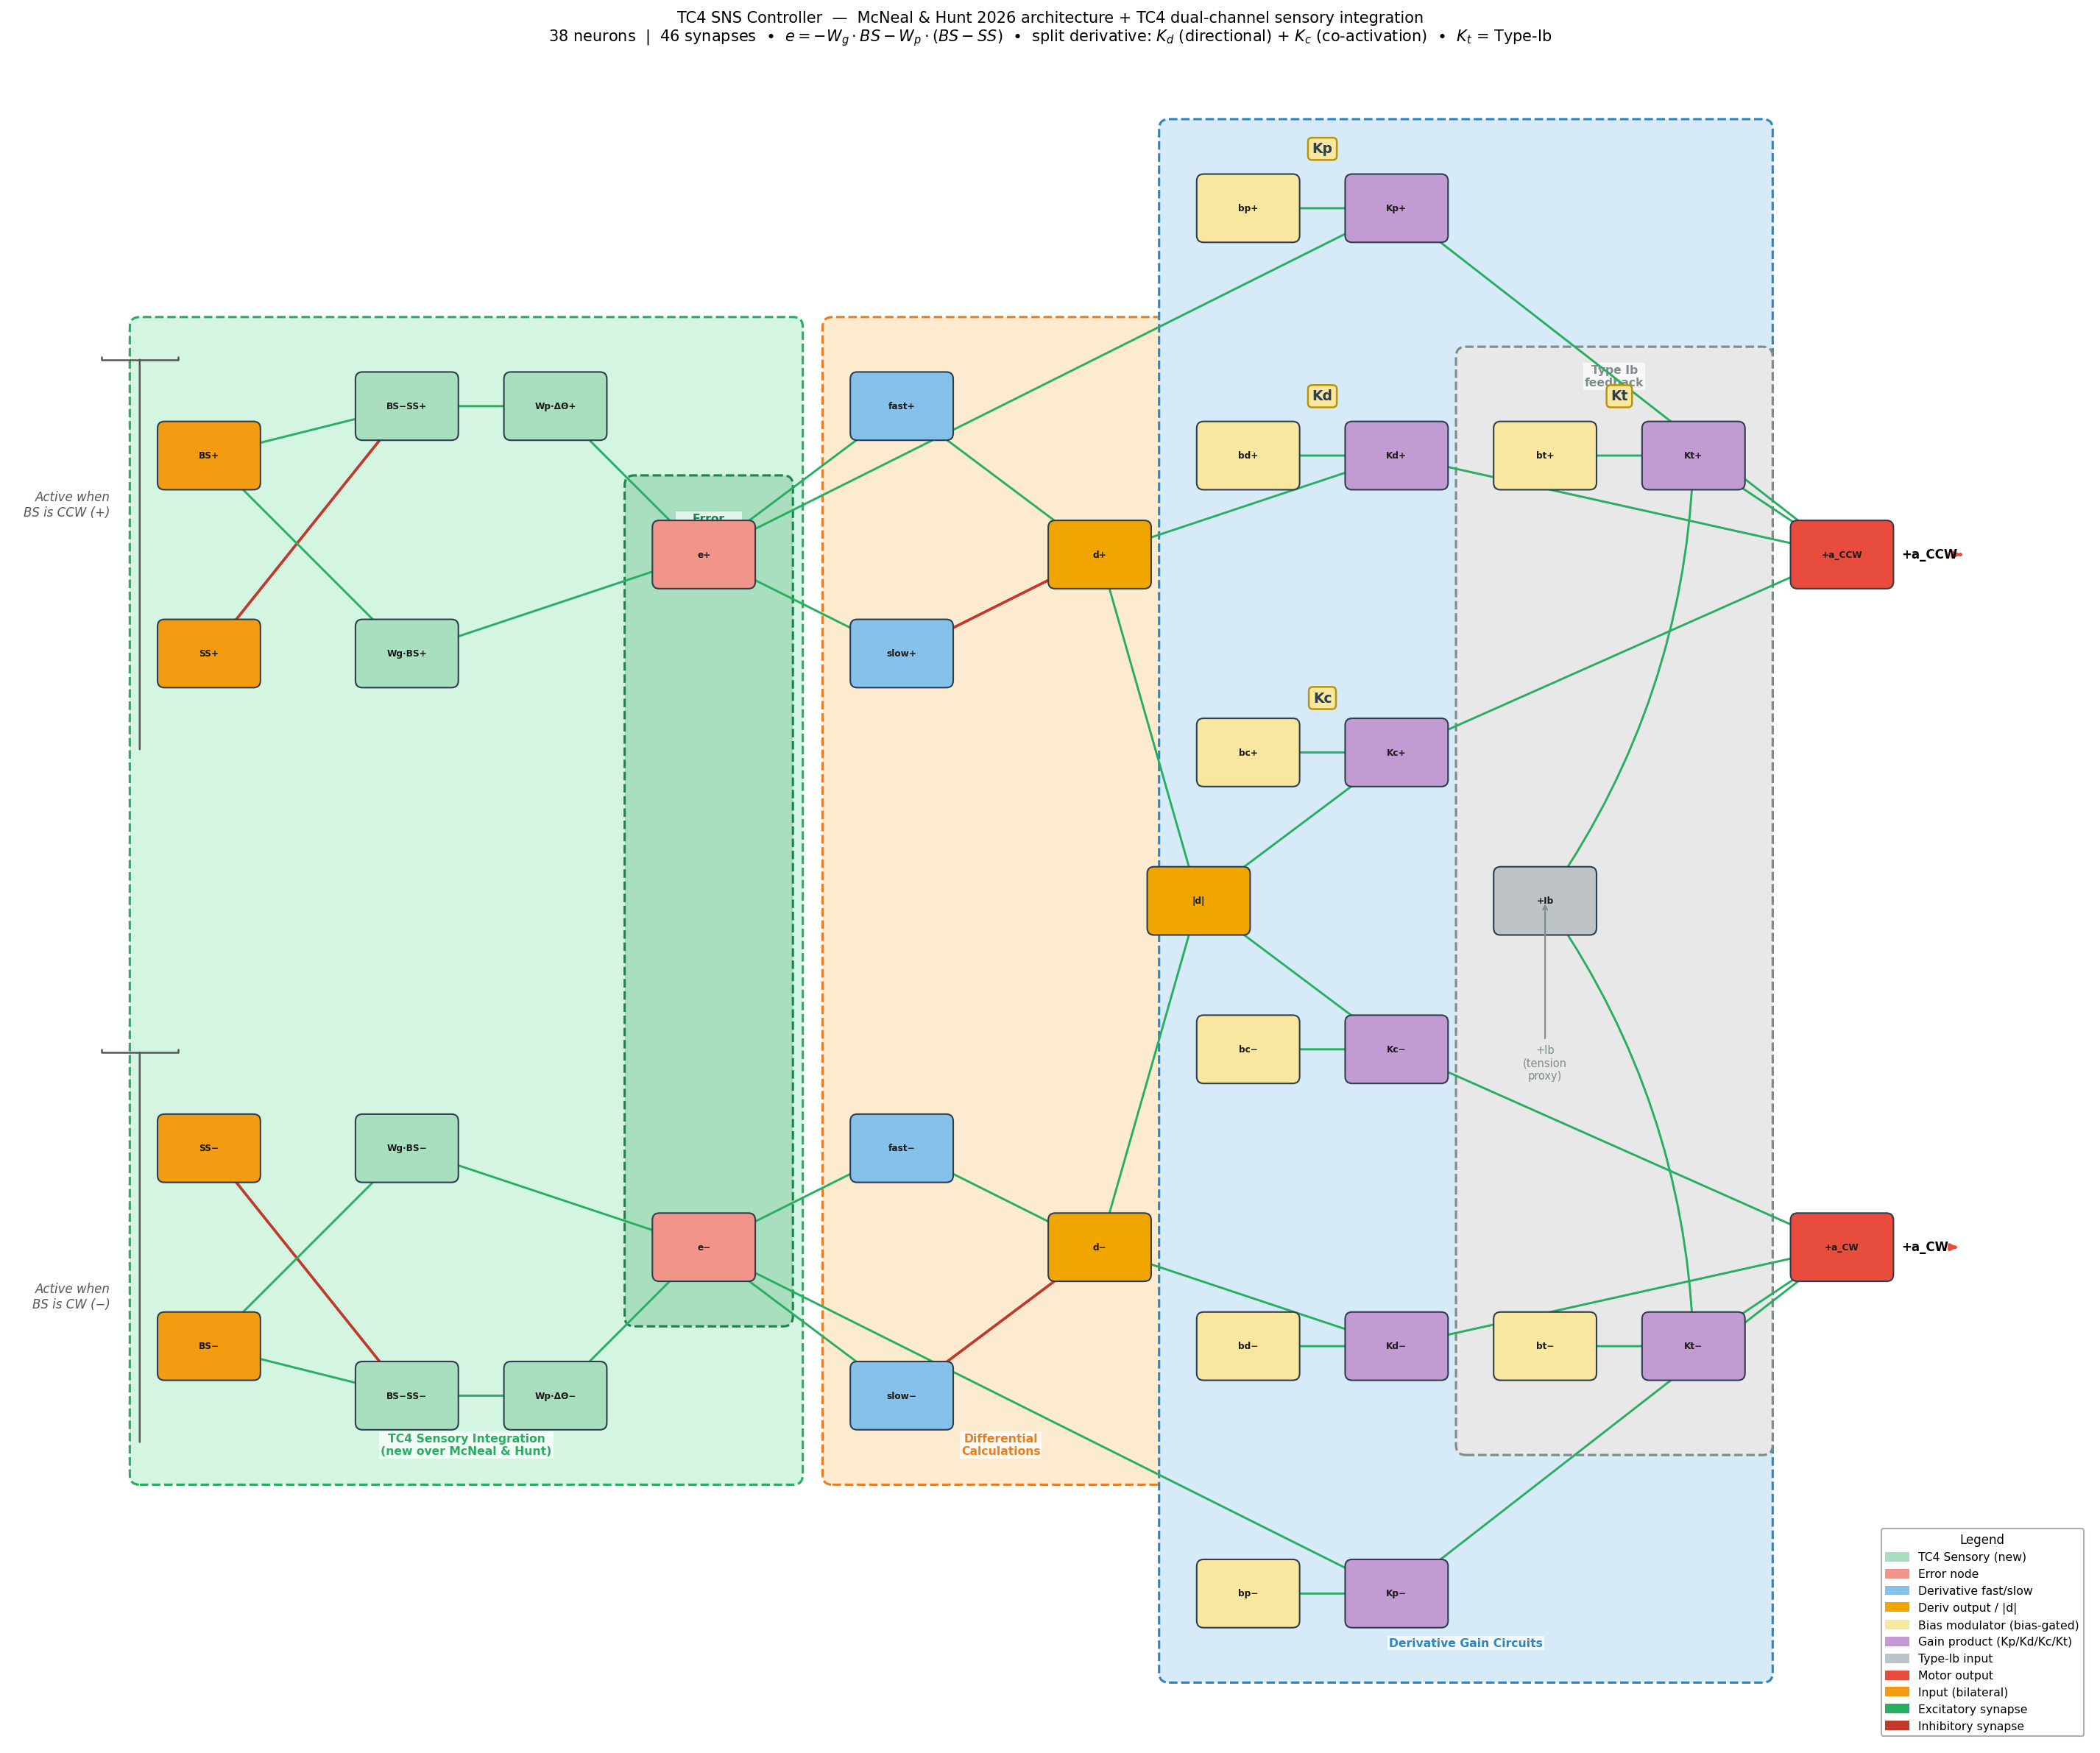
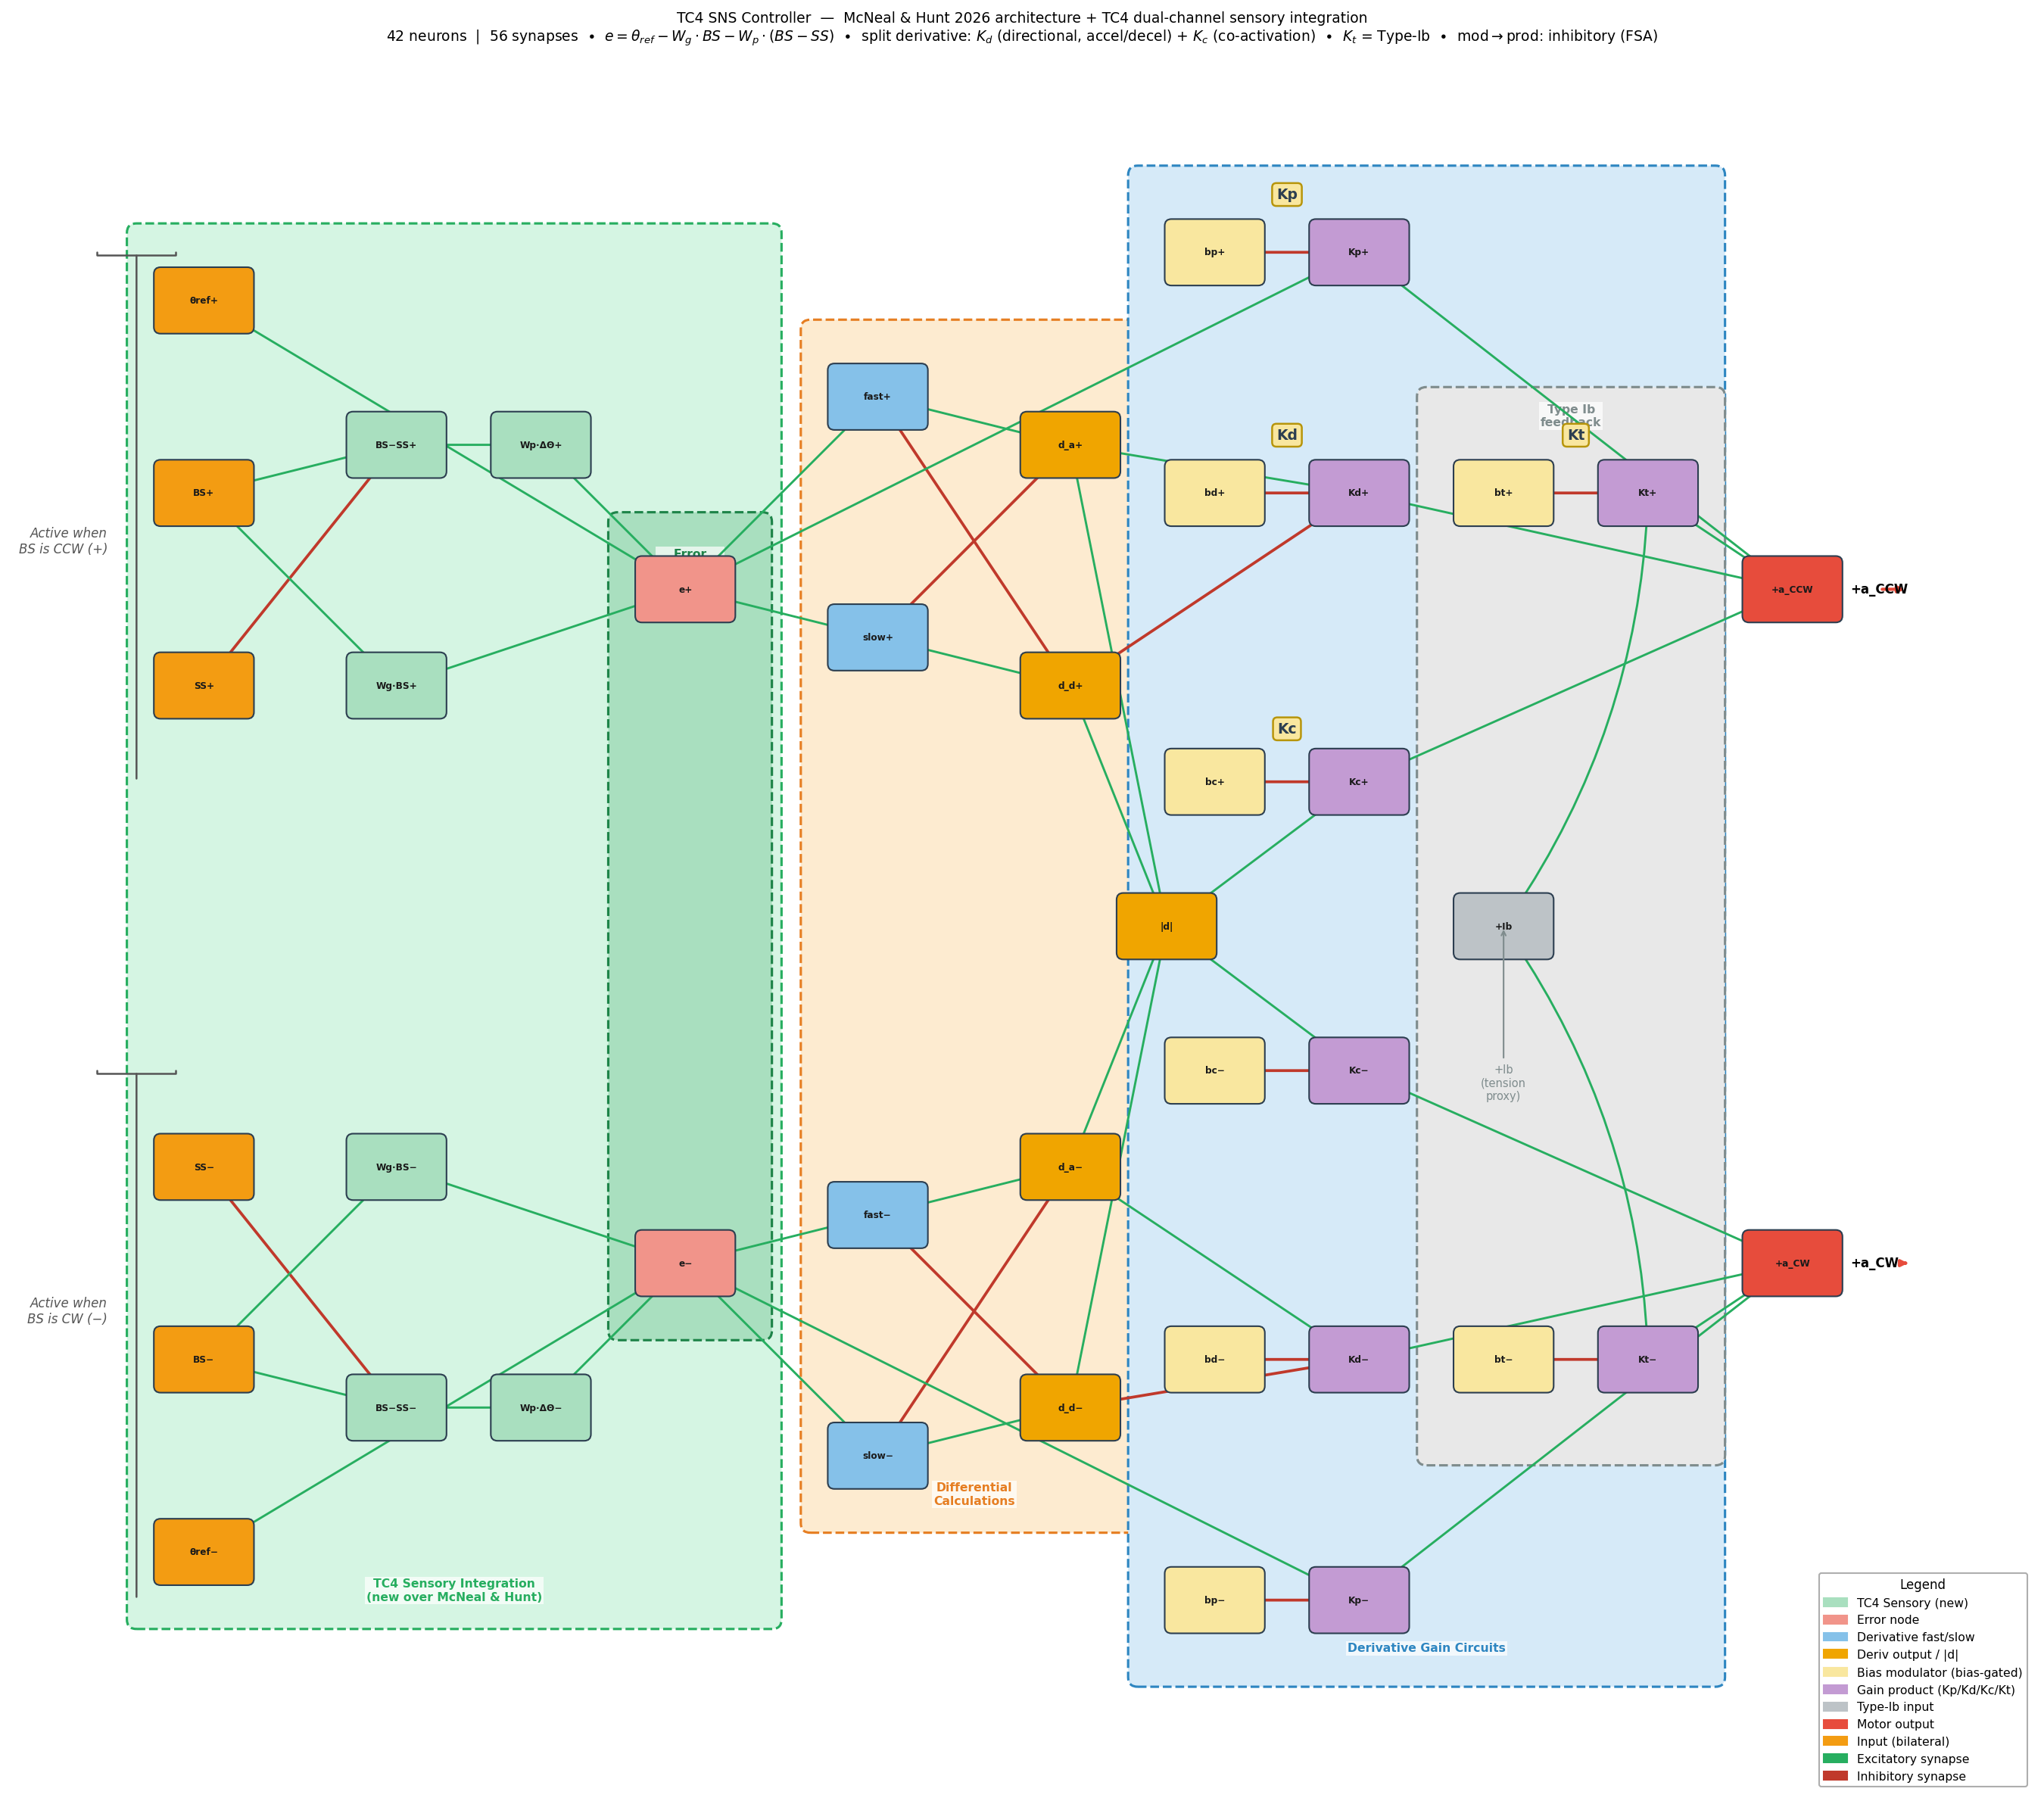
Fix three FSA architectural errors in TC4 SNS controller
- Add theta_ref bilateral input nodes (theta_ref_ccw/cw) wired excitatorily
  into error computation so non-zero reference angles can be commanded
- Split derivative subnetwork into d_accel and d_decel per side: d_accel
  captures error-growing phase (fast > slow), d_decel captures returning-to-
  upright phase (slow > fast); both feed coact_node for |d| and Kd pathway
  receives d_accel excitatory / d_decel inhibitory for signed derivative
- Fix all 8 mod→prod synapses from excitatory to inhibitory per FSA
  multiplication topology (Szczecinski 2017, Fig. 4); also fixed in
  make_multiplication_network() in sns_subnetworks.py
- Network grows from 38 neurons/46 synapses to 42 neurons/56 synapses
- Bias parameters (bp, bd, bc, bt) will need PSO re-tuning after
  mod→prod polarity change

diff --git a/Controller/sns_tc4_controller.py b/Controller/sns_tc4_controller.py
@@ -15,10 +15,10 @@ TC4 conditions (Peterka 2002, Table 2, 1-degree amplitude):
 Error signal:  e = -Wg * BS - Wp * (BS - SS)
 Torque:        Ta = (Kp + Kd * s) * e(t - tau_d)   [PD only, no integral]
 
-Network layout (38 neurons, 46 synapses):
-  Stage 1 — Bilateral input          (4  neurons)
+Network layout (42 neurons, 56 synapses):
+  Stage 1 — Bilateral input          (6  neurons)   [+2: theta_ref_ccw/cw]
   Stage 2 — TC4 sensory integration  (8  neurons)   <-- TC4 addition over McNeal & Hunt
-  Stage 3 — Derivative estimation    (6  neurons)
+  Stage 3 — Derivative estimation    (8  neurons)   [+2: d_decel_ccw/cw]
   Stage 4 — Co-activation |d(t)|     (1  neuron)
   Stage 5 — Bias-gated gain stages   (16 neurons)   Kp, Kd, Kc, Kt
   Stage 6 — Type-Ib input node       (1  neuron)
@@ -213,7 +213,7 @@ def build_tc4_network():
     # a CCW (positive) half and a CW (negative-magnitude) half before
     # entering the network.  Only one half is active at any instant.
     # ----------------------------------------------------------------
-    for name in ["bs_ccw", "bs_cw", "ss_ccw", "ss_cw"]:
+    for name in ["bs_ccw", "bs_cw", "ss_ccw", "ss_cw", "theta_ref_ccw", "theta_ref_cw"]:
         add_neuron(new_standard_neuron(name))
 
     # ----------------------------------------------------------------
@@ -250,28 +250,40 @@ def build_tc4_network():
         add_neuron(new_standard_neuron(f"wp_{side}"))
         add_synapse(f"sub_diff_{side}", f"wp_{side}", GS_WP, Es_exc)
 
-        # Addition: wg + wp  →  combined TC4 error
+        # Addition: theta_ref + wg + wp  →  combined TC4 error
         add_neuron(new_standard_neuron(f"error_{side}"))
-        add_synapse(f"wg_{side}", f"error_{side}", gs_exc, Es_exc)
-        add_synapse(f"wp_{side}", f"error_{side}", gs_exc, Es_exc)
+        add_synapse(f"theta_ref_{side}", f"error_{side}", gs_exc, Es_exc)
+        add_synapse(f"wg_{side}",        f"error_{side}", gs_exc, Es_exc)
+        add_synapse(f"wp_{side}",        f"error_{side}", gs_exc, Es_exc)
 
     # ----------------------------------------------------------------
     # Stage 3 — Derivative estimation  (McNeal & Hunt Eqs. 8-10)
-    # d(t) = v_fast - v_slow
-    # tau_fast = Cm_fast / Gm = 2 ms   (responds quickly to error changes)
-    # tau_slow = Cm_slow / Gm = 10 ms  (lags, so the difference is derivative)
-    # Both fast and slow neurons receive the same error signal.
-    # The output neuron computes the difference via excitatory/inhibitory synapses.
+    #
+    # Two output nodes per side represent the full signed derivative:
+    #   d_accel_{side} = fast - slow  (positive when error is accelerating)
+    #   d_decel_{side} = slow - fast  (positive when error is decelerating)
+    #
+    # Without d_decel, the SNS voltage would floor at Er when fast < slow,
+    # losing the returning-to-upright signal.  Both nodes are needed for:
+    #   - Kd: d_accel excitatory, d_decel inhibitory → signed directional derivative
+    #   - Kc: both excitatory to coact_node → |d| = accelerating + decelerating
     # ----------------------------------------------------------------
     for side in ["ccw", "cw"]:
         add_neuron(Neuron(Cm_nF=2.0,  Gm_uS=GM_DEFAULT, Er_mV=Er, name=f"deriv_fast_{side}"))
         add_neuron(Neuron(Cm_nF=10.0, Gm_uS=GM_DEFAULT, Er_mV=Er, name=f"deriv_slow_{side}"))
-        add_neuron(new_standard_neuron(f"deriv_out_{side}"))
+        add_neuron(new_standard_neuron(f"d_accel_{side}"))   # positive when accelerating
+        add_neuron(new_standard_neuron(f"d_decel_{side}"))   # positive when decelerating
 
         add_synapse(f"error_{side}",      f"deriv_fast_{side}", gs_exc, Es_exc)
         add_synapse(f"error_{side}",      f"deriv_slow_{side}", gs_exc, Es_exc)
-        add_synapse(f"deriv_fast_{side}", f"deriv_out_{side}",  gs_exc, Es_exc)
-        add_synapse(f"deriv_slow_{side}", f"deriv_out_{side}",  gs_inh, Es_inh)
+
+        # d_accel = fast - slow  (excit fast, inhib slow)
+        add_synapse(f"deriv_fast_{side}", f"d_accel_{side}", gs_exc, Es_exc)
+        add_synapse(f"deriv_slow_{side}", f"d_accel_{side}", gs_inh, Es_inh)
+
+        # d_decel = slow - fast  (excit slow, inhib fast)
+        add_synapse(f"deriv_slow_{side}", f"d_decel_{side}", gs_exc, Es_exc)
+        add_synapse(f"deriv_fast_{side}", f"d_decel_{side}", gs_inh, Es_inh)
 
     # ----------------------------------------------------------------
     # Stage 4 — Co-activation node:  |d(t)| ≈ deriv_out_ccw + deriv_out_cw
@@ -284,8 +296,10 @@ def build_tc4_network():
     #   x_c(t) = |d(t)|
     # ----------------------------------------------------------------
     add_neuron(new_standard_neuron("coact_node"))
-    add_synapse("deriv_out_ccw", "coact_node", gs_exc, Es_exc)
-    add_synapse("deriv_out_cw",  "coact_node", gs_exc, Es_exc)
+    add_synapse("d_accel_ccw", "coact_node", gs_exc, Es_exc)
+    add_synapse("d_accel_cw",  "coact_node", gs_exc, Es_exc)
+    add_synapse("d_decel_ccw", "coact_node", gs_exc, Es_exc)
+    add_synapse("d_decel_cw",  "coact_node", gs_exc, Es_exc)
 
     # ----------------------------------------------------------------
     # Stage 5 — Bias-gated gain stages  (McNeal & Hunt, Section III-A-2a)
@@ -302,29 +316,36 @@ def build_tc4_network():
     for side in ["ccw", "cw"]:
 
         # Kp: proportional gain  (signal = error)
+        # mod→prod is INHIBITORY per FSA multiplication subnetwork (Szczecinski 2017, Fig. 4).
         add_neuron(new_standard_neuron(f"kp_mod_{side}"))   # receives I_app = bp
         add_neuron(new_standard_neuron(f"kp_prod_{side}"))
         add_synapse(f"error_{side}",  f"kp_prod_{side}", gs_exc, Es_exc)
-        add_synapse(f"kp_mod_{side}", f"kp_prod_{side}", gs_exc, Es_exc)
+        add_synapse(f"kp_mod_{side}", f"kp_prod_{side}", gs_inh, Es_inh)
 
-        # Kd: directional derivative gain  (signal = deriv_out, signed)
+        # Kd: directional derivative gain
+        # d_accel excitatory (increase torque when accelerating away from upright).
+        # d_decel inhibitory (reduce torque when decelerating / returning to upright).
+        # mod→prod INHIBITORY per FSA.
         add_neuron(new_standard_neuron(f"kd_mod_{side}"))   # receives I_app = bd
         add_neuron(new_standard_neuron(f"kd_prod_{side}"))
-        add_synapse(f"deriv_out_{side}", f"kd_prod_{side}", gs_exc, Es_exc)
-        add_synapse(f"kd_mod_{side}",    f"kd_prod_{side}", gs_exc, Es_exc)
+        add_synapse(f"d_accel_{side}", f"kd_prod_{side}", gs_exc, Es_exc)
+        add_synapse(f"d_decel_{side}", f"kd_prod_{side}", gs_inh, Es_inh)
+        add_synapse(f"kd_mod_{side}",  f"kd_prod_{side}", gs_inh, Es_inh)
 
         # Kc: co-activation derivative gain  (signal = coact_node = |d|, unsigned)
         # Both CCW and CW sides receive the same coact_node — symmetric stiffening.
+        # mod→prod INHIBITORY per FSA.
         add_neuron(new_standard_neuron(f"kc_mod_{side}"))   # receives I_app = bc
         add_neuron(new_standard_neuron(f"kc_prod_{side}"))
         add_synapse("coact_node",      f"kc_prod_{side}", gs_exc, Es_exc)
-        add_synapse(f"kc_mod_{side}", f"kc_prod_{side}", gs_exc, Es_exc)
+        add_synapse(f"kc_mod_{side}", f"kc_prod_{side}", gs_inh, Es_inh)
 
         # Kt: Type-Ib tension feedback gain  (signal = ib_input)
+        # mod→prod INHIBITORY per FSA.
         add_neuron(new_standard_neuron(f"kt_mod_{side}"))   # receives I_app = bt
         add_neuron(new_standard_neuron(f"kt_prod_{side}"))
         add_synapse("ib_input",        f"kt_prod_{side}", gs_exc, Es_exc)
-        add_synapse(f"kt_mod_{side}", f"kt_prod_{side}", gs_exc, Es_exc)
+        add_synapse(f"kt_mod_{side}", f"kt_prod_{side}", gs_inh, Es_inh)
 
     # ----------------------------------------------------------------
     # Stage 6 — Type-Ib tension input node
@@ -378,7 +399,7 @@ def build_tc4_network():
 def step_controller(neurons, synapses, bias_neuron_map,
                     body_sway_rad, surface_sway_rad,
                     ta_ccw_activation_prev, ta_cw_activation_prev,
-                    dt_ms):
+                    dt_ms, theta_ref_rad=0.0):
     """
     Advance the TC4 SNS controller by one timestep.
 
@@ -391,6 +412,7 @@ def step_controller(neurons, synapses, bias_neuron_map,
         ta_ccw_activation_prev:   CCW motor activation from previous step [0,1]
         ta_cw_activation_prev:    CW  motor activation from previous step [0,1]
         dt_ms:                    simulation timestep in milliseconds
+        theta_ref_rad:            desired body angle reference (rad); 0 = upright
 
     Returns:
         ta_net_nm:           net active ankle torque (N·m), positive = CCW
@@ -398,10 +420,13 @@ def step_controller(neurons, synapses, bias_neuron_map,
         ta_cw_activation:    updated CW  motor activation [0,1]
     """
     # Convert angles to bilateral SNS currents
-    bs_signed = angle_to_current_na(body_sway_rad)
-    ss_signed = angle_to_current_na(surface_sway_rad)
-    bs_ccw_na, bs_cw_na = split_to_bilateral_na(bs_signed)
-    ss_ccw_na, ss_cw_na = split_to_bilateral_na(ss_signed)
+    bs_signed       = angle_to_current_na(body_sway_rad)
+    ss_signed       = angle_to_current_na(surface_sway_rad)
+    theta_ref_signed = angle_to_current_na(theta_ref_rad)
+
+    bs_ccw_na,        bs_cw_na        = split_to_bilateral_na(bs_signed)
+    ss_ccw_na,        ss_cw_na        = split_to_bilateral_na(ss_signed)
+    theta_ref_ccw_na, theta_ref_cw_na = split_to_bilateral_na(theta_ref_signed)
 
     # Compute Type-Ib input current from muscle tension proxy
     # TODO [REPLACE — Hill-type muscle model]: see tension_to_ib_current_na()
@@ -410,11 +435,13 @@ def step_controller(neurons, synapses, bias_neuron_map,
 
     # Assemble applied current dictionary
     applied_currents = {
-        "bs_ccw":   bs_ccw_na,
-        "bs_cw":    bs_cw_na,
-        "ss_ccw":   ss_ccw_na,
-        "ss_cw":    ss_cw_na,
-        "ib_input": ib_current_na,
+        "bs_ccw":        bs_ccw_na,
+        "bs_cw":         bs_cw_na,
+        "ss_ccw":        ss_ccw_na,
+        "ss_cw":         ss_cw_na,
+        "theta_ref_ccw": theta_ref_ccw_na,
+        "theta_ref_cw":  theta_ref_cw_na,
+        "ib_input":      ib_current_na,
     }
 
     # Apply bias currents to modulator neurons

diff --git a/Controller/visualize_tc4_network.py b/Controller/visualize_tc4_network.py
@@ -33,8 +33,9 @@ SCRIPT_DIR = os.path.dirname(os.path.abspath(__file__))
 # =====================================================================
 NODE_POSITIONS = {
     # --- Stage 1: bilateral inputs ---
-    "bs_ccw": (0.5,  4.5),   "bs_cw":  (0.5, -4.5),
-    "ss_ccw": (0.5,  2.5),   "ss_cw":  (0.5, -2.5),
+    "bs_ccw":        (0.5,  4.5),   "bs_cw":        (0.5, -4.5),
+    "ss_ccw":        (0.5,  2.5),   "ss_cw":        (0.5, -2.5),
+    "theta_ref_ccw": (0.5,  6.5),   "theta_ref_cw": (0.5, -6.5),
 
     # --- Stage 2: TC4 sensory integration (CCW) ---
     "sub_diff_ccw": (2.5,  5.0),
@@ -49,14 +50,16 @@ NODE_POSITIONS = {
     "error_cw":     (5.5, -3.5),
 
     # --- Stage 3: derivative estimation (CCW) ---
-    "deriv_fast_ccw": (7.5,  5.0),
-    "deriv_slow_ccw": (7.5,  2.5),
-    "deriv_out_ccw":  (9.5,  3.5),
+    "deriv_fast_ccw": (7.5,  5.5),
+    "deriv_slow_ccw": (7.5,  3.0),
+    "d_accel_ccw":    (9.5,  5.0),
+    "d_decel_ccw":    (9.5,  2.5),
 
     # --- Stage 3: derivative estimation (CW) ---
-    "deriv_fast_cw":  (7.5, -2.5),
-    "deriv_slow_cw":  (7.5, -5.0),
-    "deriv_out_cw":   (9.5, -3.5),
+    "deriv_fast_cw":  (7.5, -3.0),
+    "deriv_slow_cw":  (7.5, -5.5),
+    "d_accel_cw":     (9.5, -2.5),
+    "d_decel_cw":     (9.5, -5.0),
 
     # --- Stage 4: co-activation node (shared) ---
     "coact_node": (10.5,  0.0),
@@ -91,13 +94,15 @@ NODE_POSITIONS = {
 NODE_LABELS = {
     "bs_ccw": "BS+", "bs_cw": "BS−",
     "ss_ccw": "SS+", "ss_cw": "SS−",
+    "theta_ref_ccw": "θref+", "theta_ref_cw": "θref−",
     "sub_diff_ccw": "BS−SS+", "sub_diff_cw": "BS−SS−",
     "wg_ccw": "Wg·BS+",      "wg_cw": "Wg·BS−",
     "wp_ccw": "Wp·ΔΘ+",      "wp_cw": "Wp·ΔΘ−",
     "error_ccw": "e+",        "error_cw": "e−",
     "deriv_fast_ccw": "fast+", "deriv_fast_cw": "fast−",
     "deriv_slow_ccw": "slow+", "deriv_slow_cw": "slow−",
-    "deriv_out_ccw": "d+",    "deriv_out_cw": "d−",
+    "d_accel_ccw": "d_a+", "d_accel_cw": "d_a−",
+    "d_decel_ccw": "d_d+", "d_decel_cw": "d_d−",
     "coact_node": "|d|",
     "kp_mod_ccw": "bp+", "kp_mod_cw": "bp−",
     "kp_prod_ccw": "Kp+", "kp_prod_cw": "Kp−",
@@ -118,6 +123,7 @@ NODE_COLORS = {
     # Input — orange
     "bs_ccw": "#F39C12",  "bs_cw":  "#F39C12",
     "ss_ccw": "#F39C12",  "ss_cw":  "#F39C12",
+    "theta_ref_ccw": "#F39C12", "theta_ref_cw": "#F39C12",
 
     # TC4 sensory processing — light green  (NEW over McNeal & Hunt)
     "sub_diff_ccw": "#A9DFBF",  "sub_diff_cw": "#A9DFBF",
@@ -132,8 +138,9 @@ NODE_COLORS = {
     "deriv_slow_ccw": "#85C1E9",  "deriv_slow_cw": "#85C1E9",
 
     # Derivative output + co-activation — orange (matches M&H deriv output)
-    "deriv_out_ccw": "#F0A500",  "deriv_out_cw": "#F0A500",
-    "coact_node":    "#F0A500",
+    "d_accel_ccw": "#F0A500",  "d_accel_cw": "#F0A500",
+    "d_decel_ccw": "#F0A500",  "d_decel_cw": "#F0A500",
+    "coact_node":  "#F0A500",
 
     # Modulator neurons (bias-gated) — yellow (matches M&H Kp/Kc/Kd/Kt yellow)
     "kp_mod_ccw": "#F9E79F", "kp_mod_cw": "#F9E79F",
@@ -160,9 +167,9 @@ NODE_COLORS = {
 # =====================================================================
 BACKGROUND_REGIONS = [
     # TC4 Sensory Integration (new over McNeal & Hunt) — light green
-    (-0.2, -5.8, 6.6, 11.6,
+    (-0.2, -7.2, 6.6, 14.4,
      "#D5F5E3", "#27AE60",
-     "TC4 Sensory Integration\n(new over McNeal & Hunt)", -5.5),
+     "TC4 Sensory Integration\n(new over McNeal & Hunt)", -6.9),
 
     # Error formation sub-zone — slightly darker green, dashed
     (4.8, -4.2, 1.5, 8.4,
@@ -170,9 +177,9 @@ BACKGROUND_REGIONS = [
      "Error\nformation", 3.8),
 
     # Differential calculations — light bisque / tan
-    (6.8, -5.8, 3.4, 11.6,
+    (6.8, -6.2, 3.4, 12.4,
      "#FDEBD0", "#E67E22",
-     "Differential\nCalculations", -5.5),
+     "Differential\nCalculations", -5.9),
 
     # Derivative Gain Circuits — light blue
     (10.2, -7.8, 6.0, 15.6,
@@ -264,14 +271,14 @@ def draw_network(neurons, synapses, output_file=None):
     ax.text(-0.5, 4.0, "Active when\nBS is CCW (+)",
             ha="right", va="center", fontsize=8,
             style="italic", color="#555555")
-    ax.annotate("", xy=(-0.2, 5.5), xytext=(-0.2, 1.5),
+    ax.annotate("", xy=(-0.2, 7.0), xytext=(-0.2, 1.5),
                 arrowprops=dict(arrowstyle="-[,widthB=2.5", color="#555555", lw=1.2),
                 zorder=1)
 
     ax.text(-0.5, -4.0, "Active when\nBS is CW (−)",
             ha="right", va="center", fontsize=8,
             style="italic", color="#555555")
-    ax.annotate("", xy=(-0.2, -1.5), xytext=(-0.2, -5.5),
+    ax.annotate("", xy=(-0.2, -1.5), xytext=(-0.2, -7.0),
                 arrowprops=dict(arrowstyle="-[,widthB=2.5", color="#555555", lw=1.2),
                 zorder=1)
 
@@ -349,15 +356,15 @@ def draw_network(neurons, synapses, output_file=None):
     # --- Title ---
     ax.set_title(
         "TC4 SNS Controller  —  McNeal & Hunt 2026 architecture + TC4 dual-channel sensory integration\n"
-        f"38 neurons  |  46 synapses  "
-        r"$\bullet$  $e = -W_g \cdot BS - W_p \cdot (BS - SS)$  "
-        r"$\bullet$  split derivative: $K_d$ (directional) + $K_c$ (co-activation)  "
-        r"$\bullet$  $K_t$ = Type-Ib",
-        fontsize=10, pad=12,
+        r"42 neurons  |  56 synapses  "
+        r"$\bullet$  $e = \theta_{ref} - W_g \cdot BS - W_p \cdot (BS - SS)$  "
+        r"$\bullet$  split derivative: $K_d$ (directional, accel/decel) + $K_c$ (co-activation)  "
+        r"$\bullet$  $K_t$ = Type-Ib  $\bullet$  mod$\to$prod: inhibitory (FSA)",
+        fontsize=9, pad=12,
     )
 
     ax.set_xlim(-1.5, 19.5)
-    ax.set_ylim(-8.5, 8.5)
+    ax.set_ylim(-9.0, 9.0)
     ax.set_aspect("equal")
     ax.axis("off")
 

diff --git a/Controller/sns_subnetworks.py b/Controller/sns_subnetworks.py
@@ -85,7 +85,7 @@ def make_multiplication_network():
     mul_prod = make_neuron("mul_prod") # neuron for output c
     syn1 = Synapse(gs_exc, Es_exc, Elo, Ehi, name="mul_pre1_to_prod", pre="mul_pre1", post="mul_prod") # synapse from pre1 to mul_prod (excitatory)
     syn2 = Synapse(gs_exc, Es_exc, Elo, Ehi, name="mul_pre2_to_mod", pre="mul_pre2", post="mul_mod") # synapse from pre2 to mul_mod (excitatory)
-    syn3 = Synapse(gs_exc, Es_exc, Elo, Ehi, name="mul_mod_to_prod", pre="mul_mod", post="mul_prod") # synapse from mul_mod to mul_prod (modulatory)
+    syn3 = Synapse(gs_inh, Es_inh, Elo, Ehi, name="mul_mod_to_prod", pre="mul_mod", post="mul_prod") # inhibitory per FSA multiplication (Szczecinski 2017, Fig. 4)
     return mul_pre1, mul_pre2, mul_mod, mul_prod, syn1, syn2, syn3
 
 # Division subnetwork